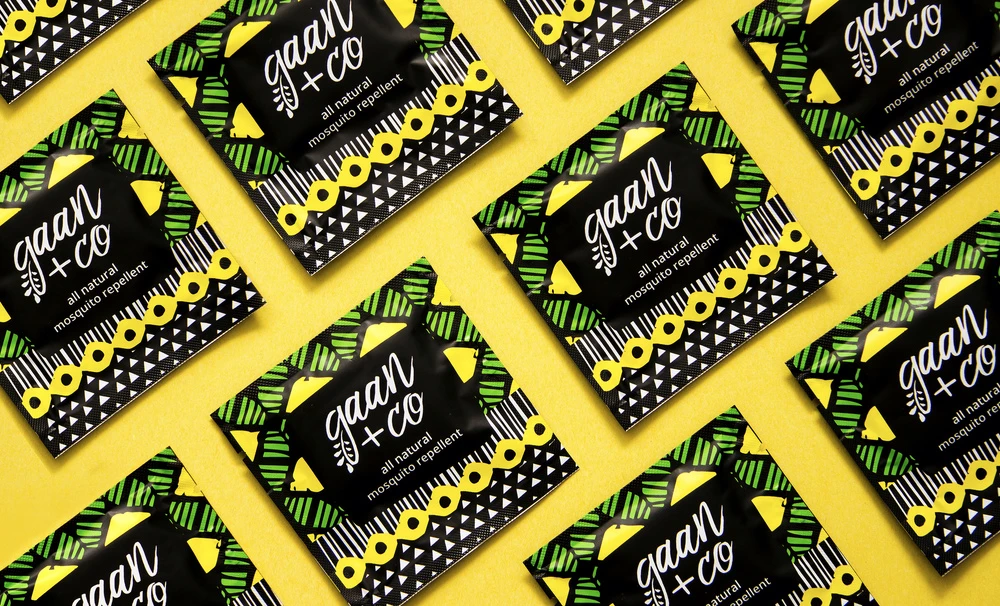
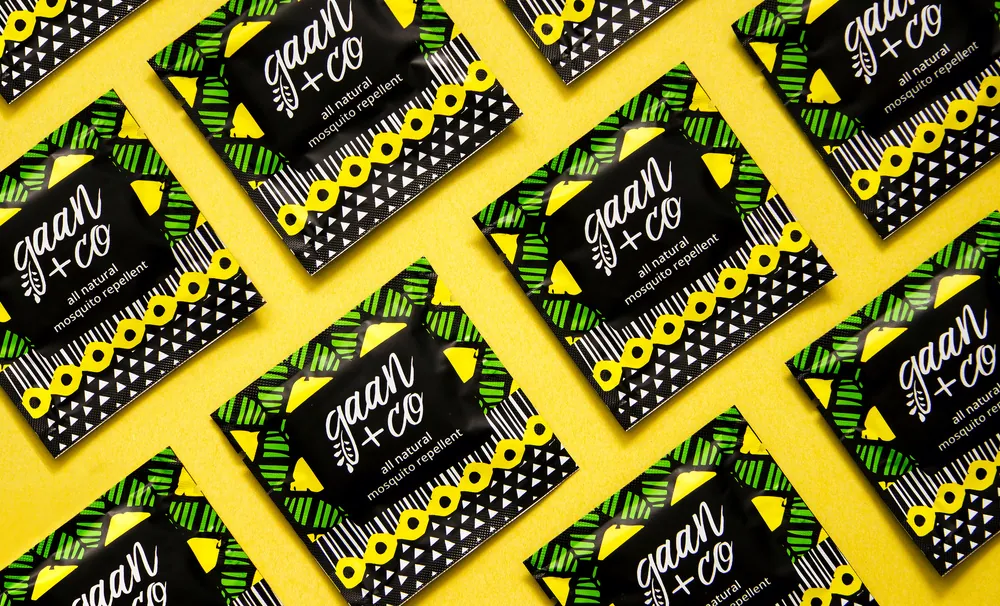
added webp for main page

diff --git a/pages/index.js b/pages/index.js
@@ -4,7 +4,7 @@ import Link from "next/link";
 import styles from "../styles/Home.module.css";
 import Navbar from "../components/Navbar";
 import pic1 from "./architecture.webp";
-import pic2 from "./images.jpeg";
+import pic2 from "./images.webp";
 
 export default function Home() {
   return (
@@ -19,7 +19,7 @@ export default function Home() {
                 className='imglink'
                 layout='responsive'
                 objectFit='cover'
-                src='/issa.jpeg'
+                src='/issa.webp'
                 height='1080'
                 width='1920'
               />
@@ -35,7 +35,7 @@ export default function Home() {
                 className='imglink'
                 layout='responsive'
                 objectFit='cover'
-                src='/gaan.jpeg'
+                src='/gaan.webp'
                 height='1080'
                 width='1920'
               />
@@ -53,7 +53,7 @@ export default function Home() {
                 className='imglink'
                 layout='responsive'
                 objectFit='cover'
-                src='/pizzacastle.jpeg'
+                src='/pizzacastle.webp'
                 height='1080'
                 width='1920'
               />
@@ -69,7 +69,7 @@ export default function Home() {
                 className='imglink'
                 layout='responsive'
                 objectFit='cover'
-                src='/spreadembrochure.jpeg'
+                src='/spreadembrochure.webp'
                 height='1080'
                 width='1920'
               />
@@ -85,7 +85,7 @@ export default function Home() {
                 className='imglink'
                 layout='responsive'
                 objectFit='cover'
-                src='/islands.jpeg'
+                src='/islands.webp'
                 height='1080'
                 width='1920'
               />
@@ -101,7 +101,7 @@ export default function Home() {
                 className='imglink'
                 layout='responsive'
                 objectFit='cover'
-                src='/labietis.jpeg'
+                src='/labietis.webp'
                 height='1080'
                 width='1920'
               />
@@ -117,7 +117,7 @@ export default function Home() {
                 className='imglink'
                 layout='responsive'
                 objectFit='cover'
-                src='/cannabis.jpeg'
+                src='/cannabis.webp'
                 height='1080'
                 width='1920'
               />
@@ -133,7 +133,7 @@ export default function Home() {
                 className='imglink'
                 layout='responsive'
                 objectFit='cover'
-                src='/spreademweb.jpeg'
+                src='/spreademweb.webp'
                 height='1080'
                 width='1920'
               />
